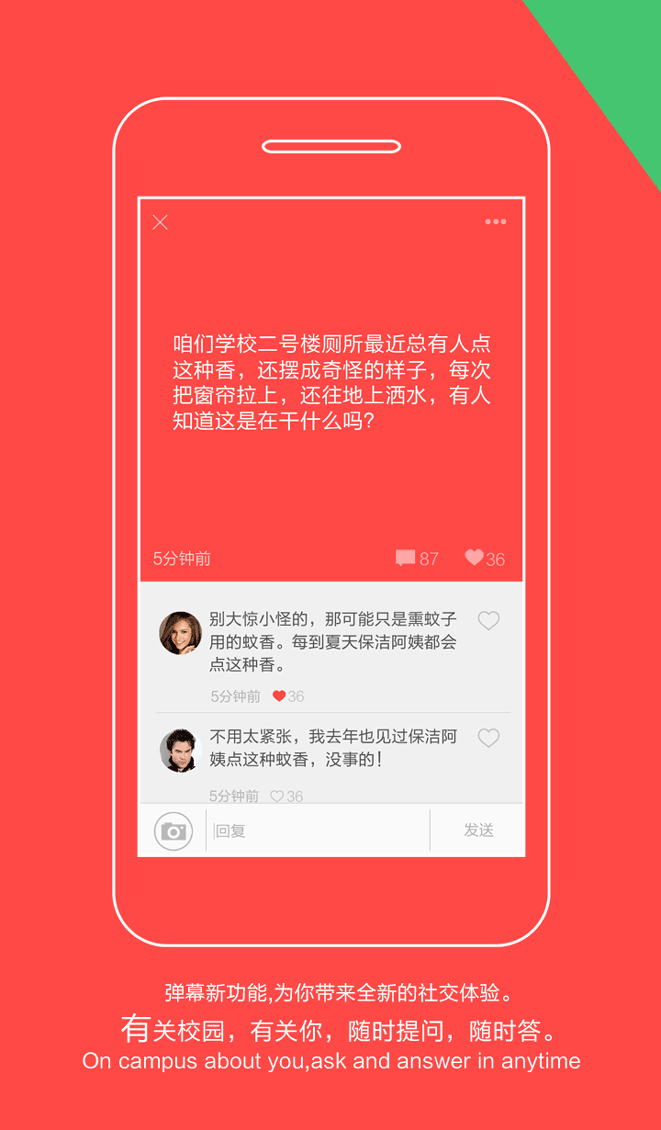
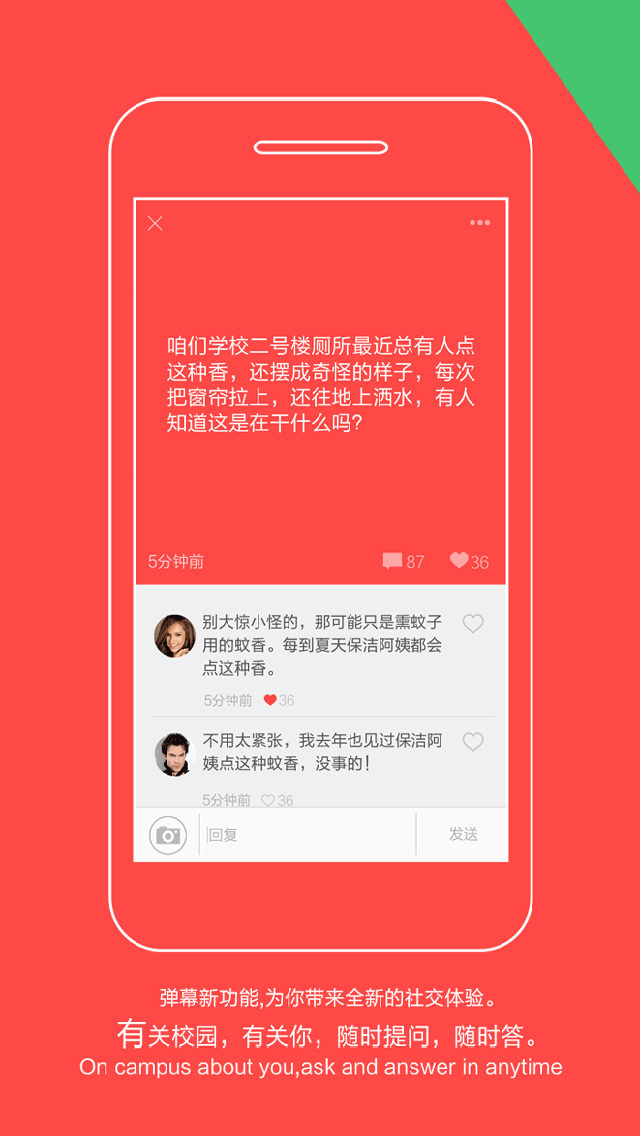
调整矮胖问题

diff --git a/Sys/Topic/View/Index/main.html b/Sys/Topic/View/Index/main.html
@@ -4,23 +4,23 @@
     <div class="screen" >
 
         <div id="page_1" class="page page_1">
-            <img class="layer_bg" src="__PUBLIC__/Topic/Image/guide_0.png">
+            <img class="layer_bg" src="__PUBLIC__/Topic/Image/guide_4.png">
             <div class="swipe_tip"></div>
         </div>
 
         <div id="page_2" class="page page_2">
-            <img class="layer_bg" src="__PUBLIC__/Topic/Image/guide_1.png">
+            <img class="layer_bg" src="__PUBLIC__/Topic/Image/guide_5.png">
             <div class="swipe_tip"></div>
         </div>
         <div id="page_3" class="page page_3">
-            <img class="layer_bg" src="__PUBLIC__/Topic/Image/guide_2.png">
+            <img class="layer_bg" src="__PUBLIC__/Topic/Image/guide_6.png">
             <div class="swipe_tip"></div>
         </div>
         <div id="page_4" class="page page_4">
-            <img class="layer_bg" src="__PUBLIC__/Topic/Image/guide_3.png">
+            <img class="layer_bg" src="__PUBLIC__/Topic/Image/guide_7.png">
             <div class="swipe_tip"></div>
         </div>
-        <div id="page_5" class="page page_5">
+        <!-- <div id="page_5" class="page page_5">
             <img class="layer_bg" src="__PUBLIC__/Topic/Image/background.png">
             <div class="inner">
                 <h1 class="logo_1"><img width="215" src="__PUBLIC__/Topic/Image/logo2.png" alt=""></h1> 
@@ -31,7 +31,7 @@
                 </div>
             </div>
             <div class="swipe_tip"></div>
-        </div>
+        </div> -->
 
     </div>
 </div>

diff --git a/Public/Topic/Css/main.css b/Public/Topic/Css/main.css
@@ -46,7 +46,7 @@ body,html{width:100%;height:100%;position:relative;font-family:"微软雅黑";}
 .swipe_tip{position:absolute;left:50%;bottom:15px;width:32px;height:32px;margin-left:-16px;background:url(../Image/arr_down.png) no-repeat;background-size:32px 32px;z-index:5;}
 
 @media screen and (max-height:480px) {}
-.layer_bg{position:absolute;left:0;top:0;width:100%;height:100%;}
+.layer_bg{position:absolute;left:0;top:0;width:100%;height:auto;}
 
 
 body{overflow:hidden;-webkit-backface-visibility:hidden;}
